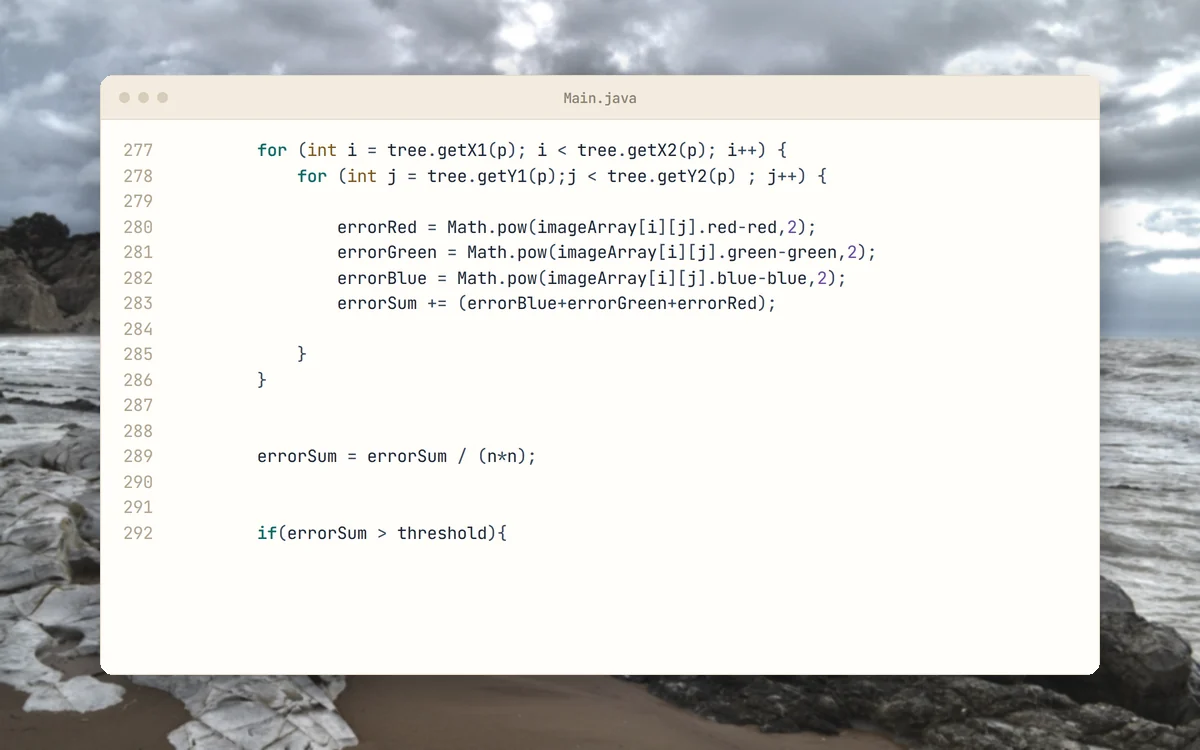
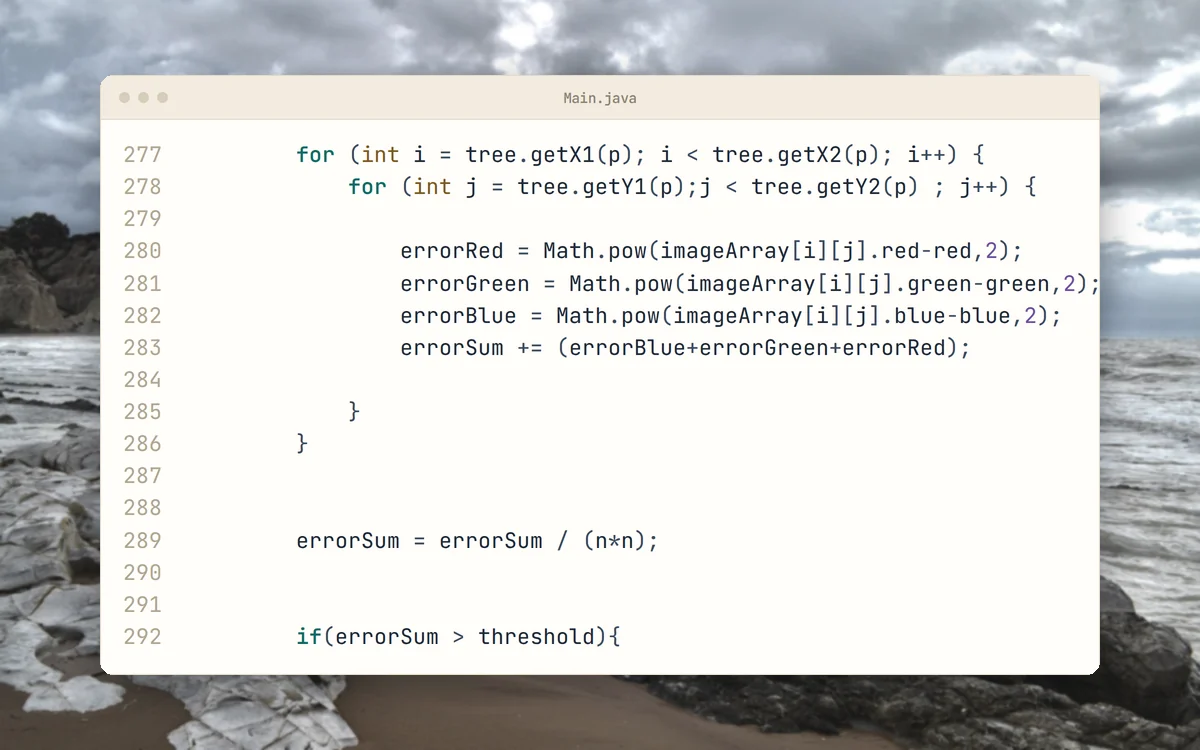
docs(readme): make the tour cards distinct from the hero

diff --git a/README.md b/README.md
@@ -61,11 +61,11 @@ A single run produces the whole range from coarse to fine.
     </td>
     <td width="50%" valign="top">
       <picture>
-        <source media="(prefers-color-scheme: dark)" srcset="docs/assets/readme/tour/middle-dark.webp">
-        <img src="docs/assets/readme/tour/middle-light.webp" alt="Test image beside level 4 of the output">
+        <source media="(prefers-color-scheme: dark)" srcset="docs/assets/readme/tour/third-dark.webp">
+        <img src="docs/assets/readme/tour/third-light.webp" alt="Test image beside level 3 of the output">
       </picture>
-      <h3>Middle level</h3>
-      Level 4 keeps the circle and the triangle recognisable, with visible block edges.
+      <h3>Third level</h3>
+      At level 3 the ring and the gold circle start to appear. The triangle is still a single green block.
     </td>
   </tr>
   <tr>
